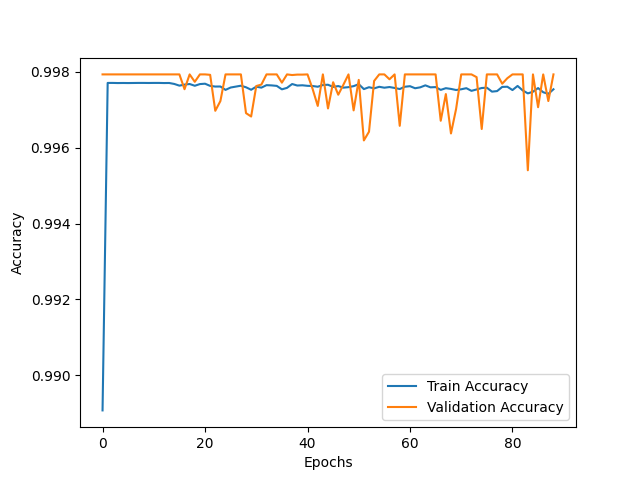
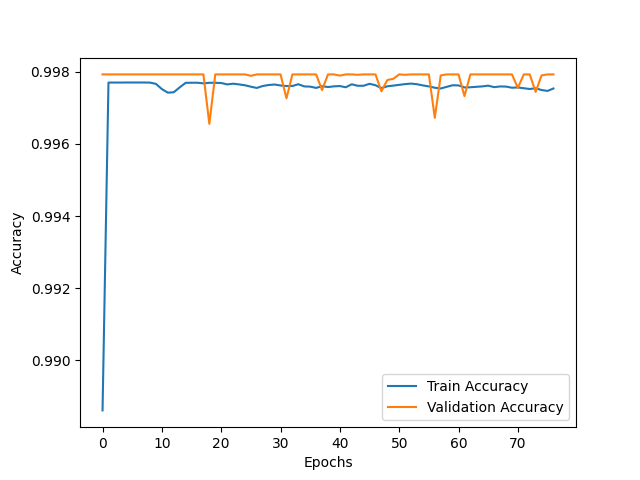
ok

diff --git a/08-modelling-07b.py b/08-modelling-07b.py
@@ -63,11 +63,11 @@ logging.info(f"y_val shape: {y_val_scaled.shape}")
 logging.info(f"x_test shape: {x_test_scaled.shape}")
 logging.info(f"y_test shape: {y_test_scaled.shape}")
 
-# Handle Class Imbalance
-class_weights = {
-    0: (1 / np.sum(y_train_scaled == 0)) * (len(y_train_scaled) / 2.0),
-    1: (1 / np.sum(y_train_scaled == 1)) * (len(y_train_scaled) / 2.0)
-}
+# # Handle Class Imbalance
+# class_weights = {
+#     0: (1 / np.sum(y_train_scaled == 0)) * (len(y_train_scaled) / 2.0),
+#     1: (1 / np.sum(y_train_scaled == 1)) * (len(y_train_scaled) / 2.0)
+# }
 
 # Function to determine neurons
 def neurons(num_features, ratio, multiple=CONFIG['multiple']):
@@ -126,7 +126,7 @@ history = model.fit(
     batch_size=CONFIG['batch_size'],
     epochs=CONFIG['epochs'],
     validation_data=(x_val_scaled, y_val_scaled),
-    class_weight=class_weights,
+    #class_weight=class_weights,
     callbacks=callbacks
 )
 end_time = time.time()
